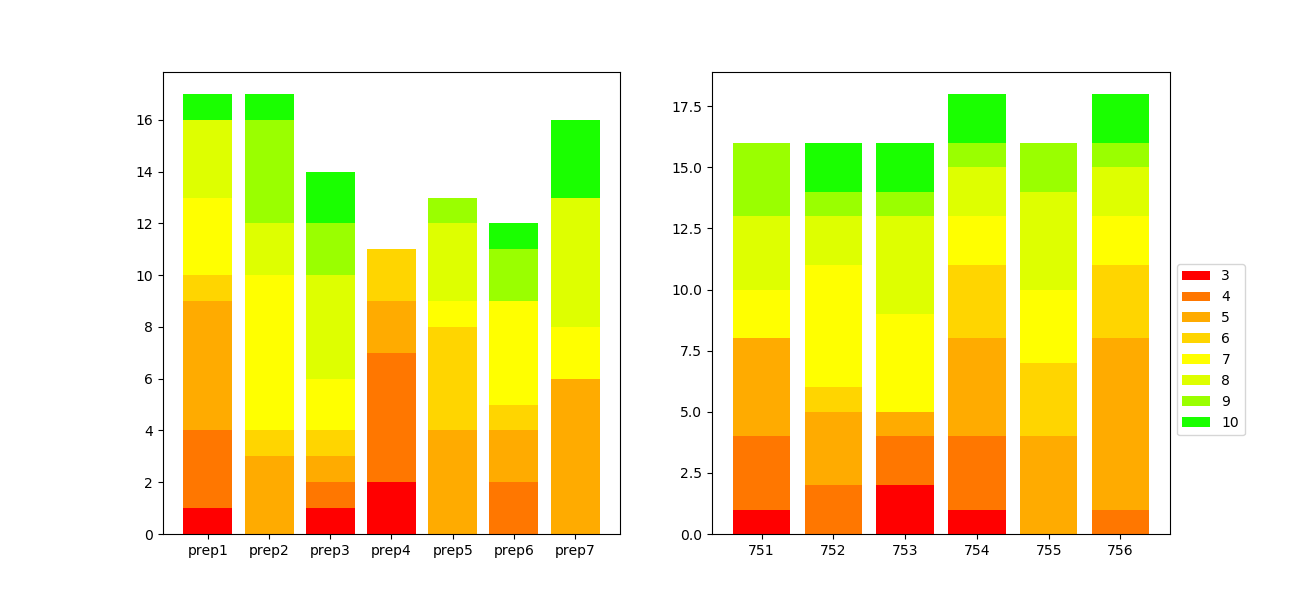
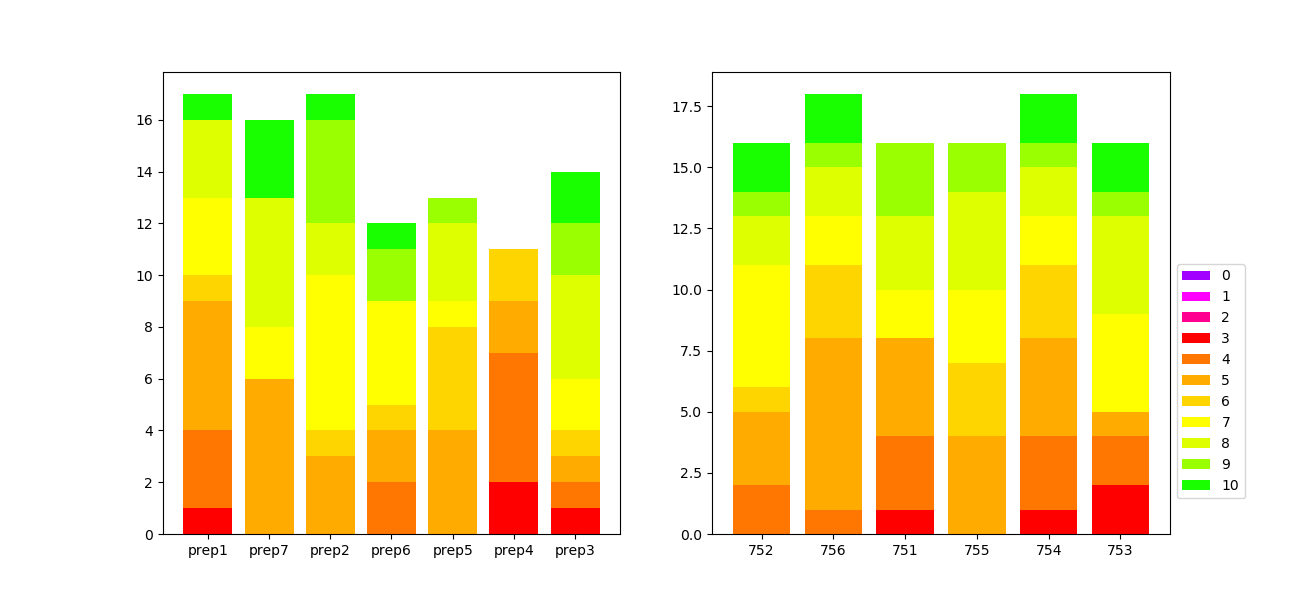
fix last issue

diff --git a/mpl_lab/marks.py b/mpl_lab/marks.py
@@ -4,44 +4,45 @@ import numpy as np
 
 
 def sum_arr(k):
-    sum_prep = np.zeros(len(prep_mark))
-    sum_group = np.zeros(len(group_mark))
+    sum_prep = np.zeros(len(prep_m))
+    sum_group = np.zeros(len(group_m))
     for a in range(k):
-        sum_prep += prep_mark[:, a]
-        sum_group += group_mark[:, a]
-    return (sum_prep, sum_group)
+        sum_prep += np.array([mark[1][a] for mark in prep_m.items()])
+        sum_group += np.array([mark[1][a] for mark in group_m.items()])
+    return sum_prep, sum_group
 
 
+howmanymarks = 10  # скольки балльная шкала (включая ноль) используется
+colors = ["#A200FF", "#FF00FF", "#FF0091", "#FF0000", "#FF7700", "#FFAB00", "#FFD500", "#FFFF00", "#DEFF00", "#9AFF00",
+          "#1AFF00"]
 marks = []
 group = []
 prep = []
 
-colors = ["#FF0000", "#FF7700", "#FFAB00", "#FFD500", "#FFFF00", "#DEFF00", "#9AFF00", "#1AFF00"]
-
 with open("students.csv", 'r') as file:
     csv_read = csv.reader(file, delimiter=';')
     for student in csv_read:
-        prep.append(int(student[0][-1]))
-        group.append(int(student[1][-1]))
+        prep.append(student[0])
+        group.append(student[1])
         marks.append(int(student[2]))
 
-prep_mark = np.array([np.zeros(8) for i in range(7)])
-group_mark = np.array([np.zeros(8) for i in range(6)])
+prep_m = {prep: np.zeros(howmanymarks + 1) for prep in list(set(sorted(prep)))}
+group_m = {group: np.zeros(howmanymarks + 1) for group in list(set(sorted(group)))}
 
 for i in range(len(prep)):
-    prep_mark[prep[i] - 1][marks[i] - 3] += 1
-    group_mark[group[i] - 1][marks[i] - 3] += 1
+    prep_m.get(prep[i])[marks[i]] += 1
+    group_m.get(group[i])[marks[i]] += 1
 
 fig, axs = plt.subplots(nrows=1, ncols=2)
 
-axs[0].bar(["prep" + str(j + 1) for j in range(7)], prep_mark[:, 0], label=str(3), color=colors[0])
-axs[1].bar([str(750 + j + 1) for j in range(6)], group_mark[:, 0], label=str(3), color=colors[0])
+axs[0].bar(prep_m.keys(), [mark[1][0] for mark in prep_m.items()], label=str(0), color=colors[0])
+axs[1].bar(group_m.keys(), [mark[1][0] for mark in group_m.items()], label=str(0), color=colors[0])
 
-for i in range(1, 8):
-    axs[0].bar(["prep" + str(j + 1) for j in range(7)], prep_mark[:, i], bottom=sum_arr(i)[0], label=str(i + 3),
-               color=colors[i])
-    axs[1].bar([str(750 + j + 1) for j in range(6)], group_mark[:, i], bottom=sum_arr(i)[1], label=str(i + 3),
-               color=colors[i])
+for i in range(1, howmanymarks + 1):
+    axs[0].bar(prep_m.keys(), [mark[1][i] for mark in prep_m.items()], bottom=sum_arr(i)[0], label=str(i),
+               color=colors[i % len(colors)])
+    axs[1].bar(group_m.keys(), [mark[1][i] for mark in group_m.items()], bottom=sum_arr(i)[1], label=str(i),
+               color=colors[i % len(colors)])
 
 plt.legend(bbox_to_anchor=(1, 0.6))
 figure = plt.gcf()
